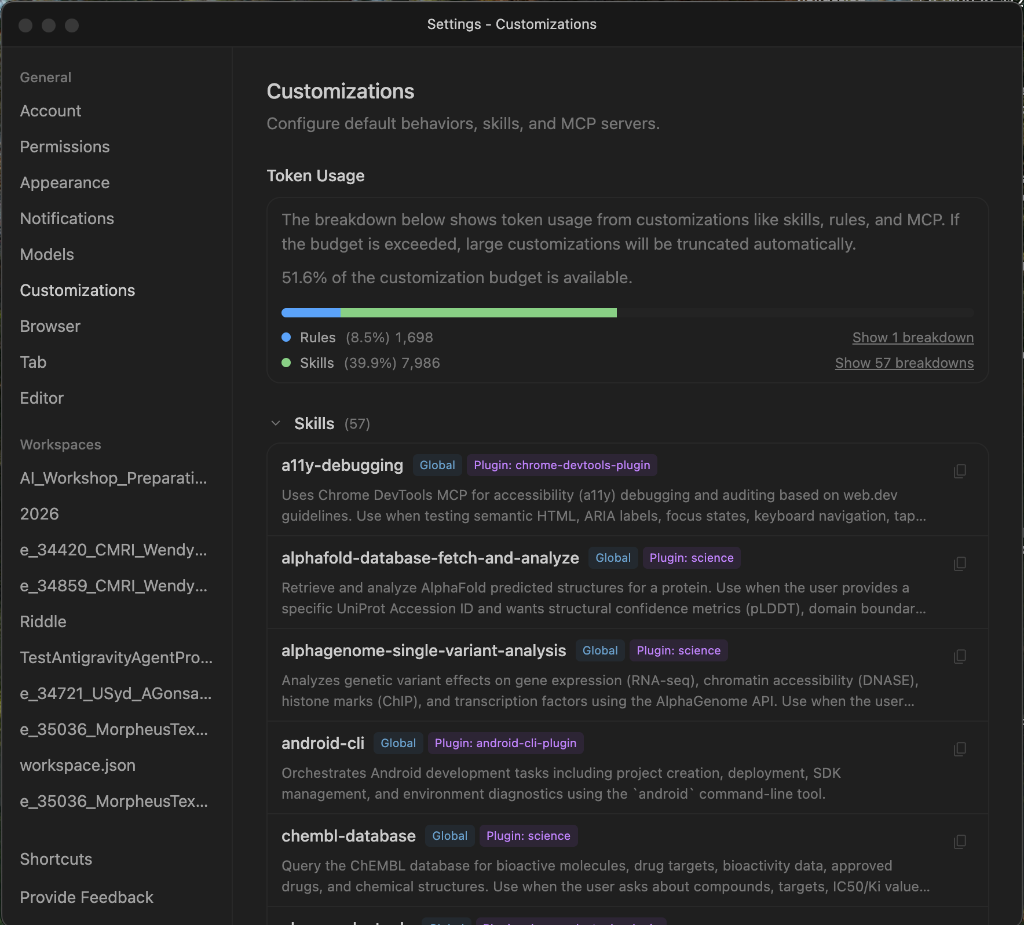
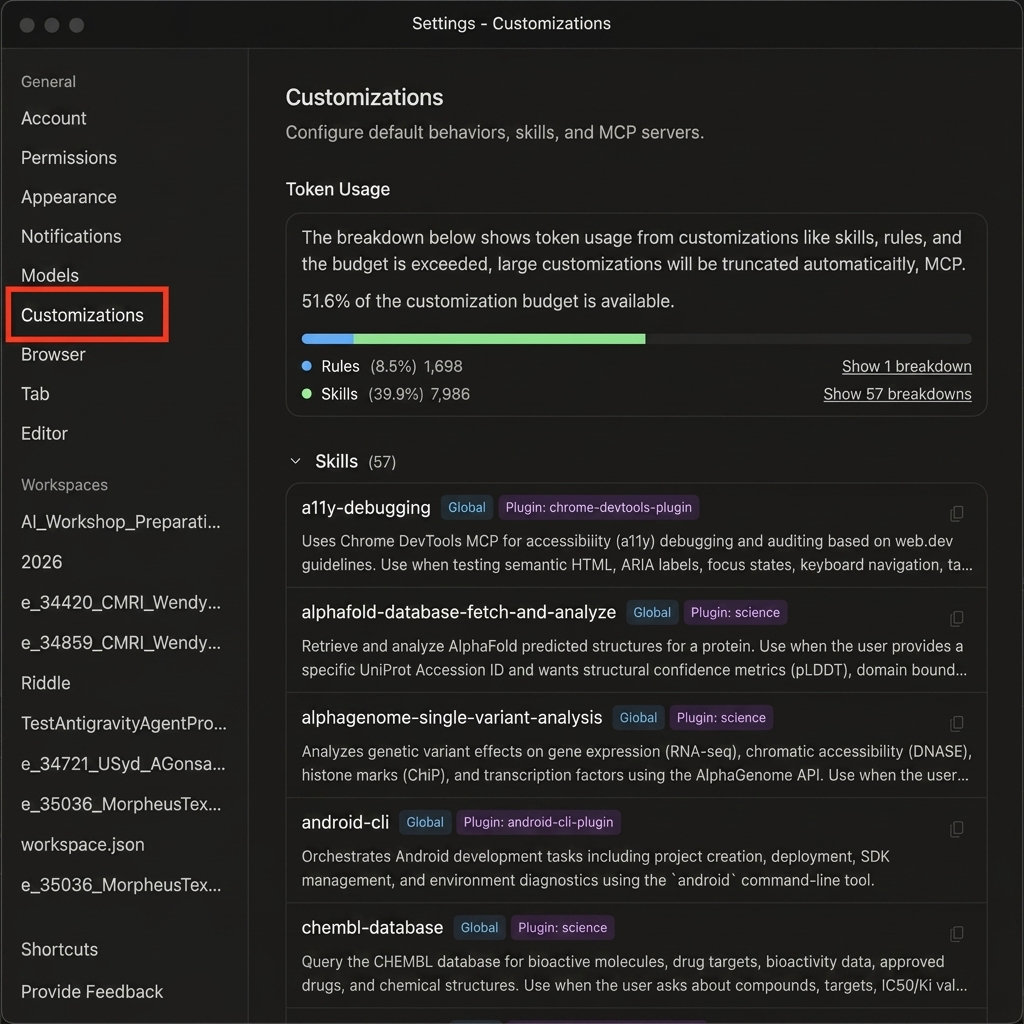
docs: redact email and highlight setting targets with red boxes in README images

diff --git a/README.md b/README.md
@@ -49,7 +49,7 @@ Antigravity IDE integration and web previews work best with Google Chrome.
 
 To protect privacy and minimize network usage during the workshop, please disable telemetry:
 
-1. In the bottom-left corner of the Antigravity IDE window, click on the **Antigravity - Settings** status bar item (as shown in Step 1 of Section 5).
+1. In the bottom-right corner of the Antigravity IDE window, click on the **Antigravity - Settings** status bar item (as shown in Step 1 of Section 5).
 2. Click on the **Advanced Settings** link located at the bottom of the settings popup.
 3. In the Left Sidebar of the Advanced Settings window, select **Account**.
 4. In the **General** section, toggle the **Enable Telemetry** switch to **OFF** (gray/disabled).
